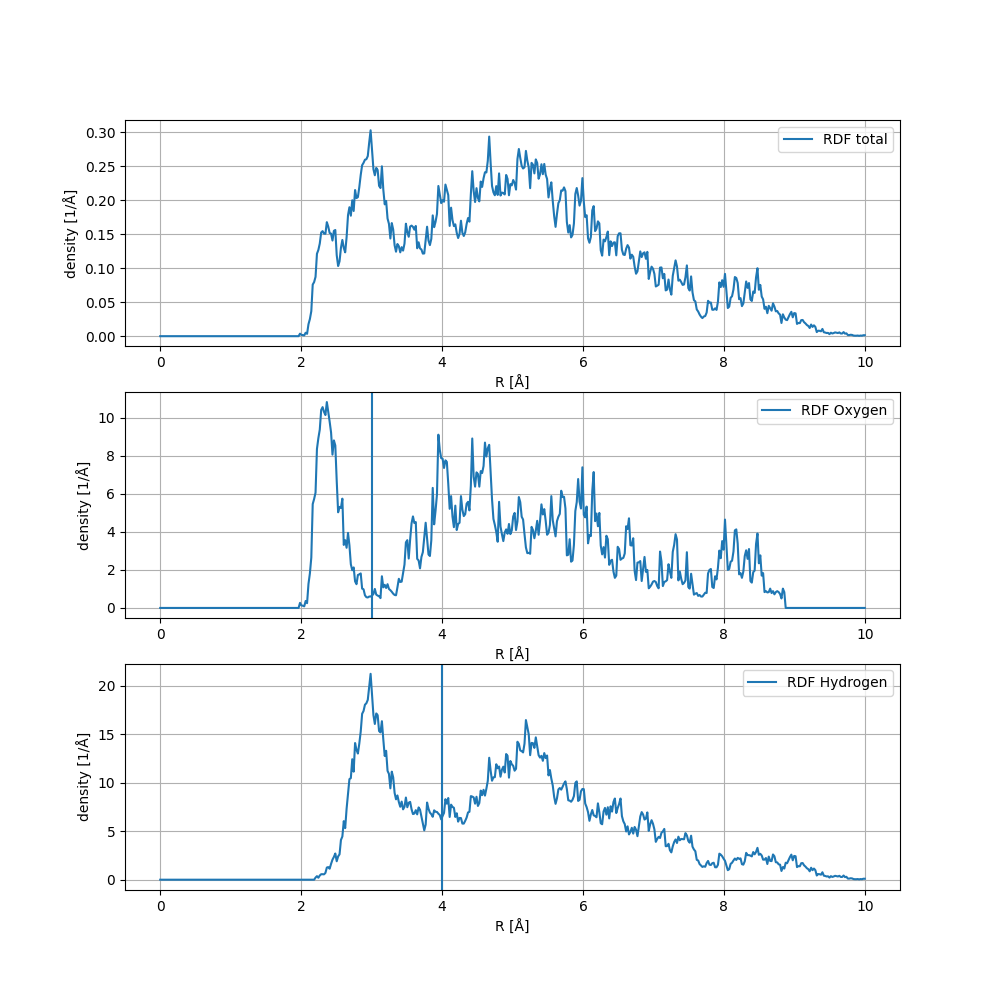
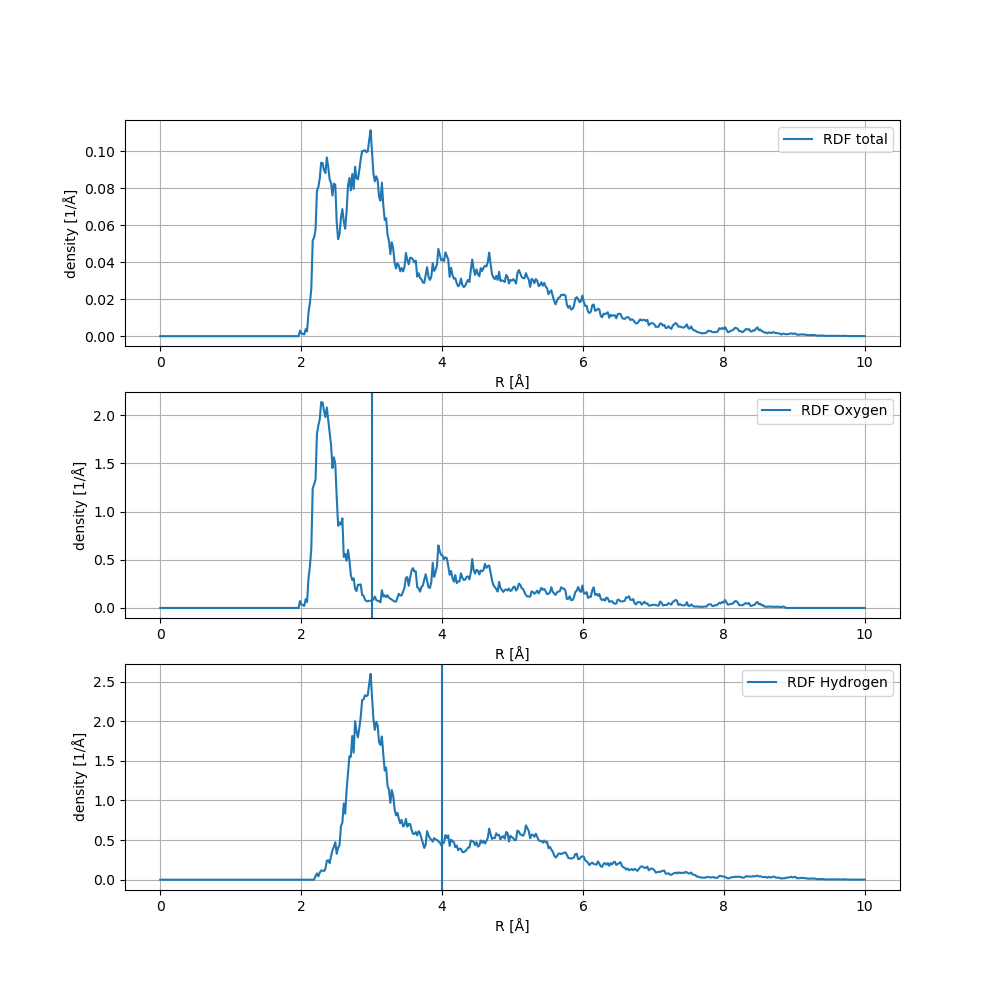
bilder

diff --git a/HW3/RDF.py b/HW3/RDF.py
@@ -8,6 +8,8 @@ from ase.units import fs, kB
 from ase.md.npt import NPT
 
 from gpaw import GPAW
+pi = np.pi
+
 filename = 'cluster24wNa.traj'
 
 atomic_numbers = read(filename).get_atomic_numbers()
@@ -37,7 +39,7 @@ for atoms in iread('cluster24wNa.traj'):
         RDF_H += np.histogram(atoms.get_distances(72,boolean_indices_H),bins = bins, range = (0, 10))[0]
 
 r_max = 10
-r_vec = np.linspace(0,r_max,bins)
+r_vec = np.linspace(0.1,r_max,bins)
 V = read(filename).get_volume()
 rho = 24/V
 RDF = RDF/(r_vec**2*4*pi*rho)
